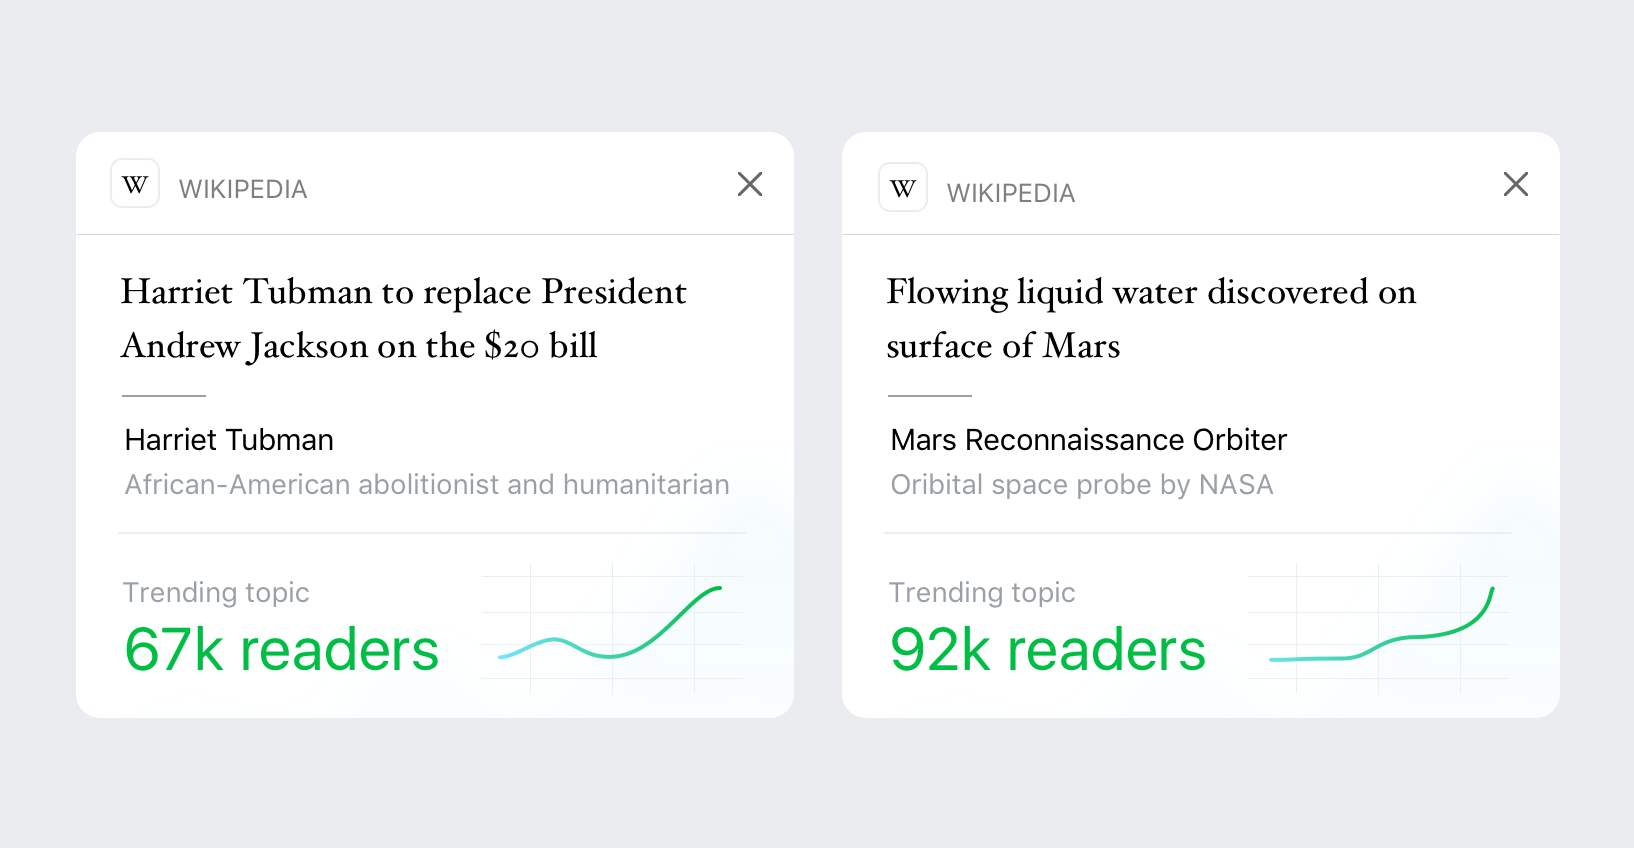
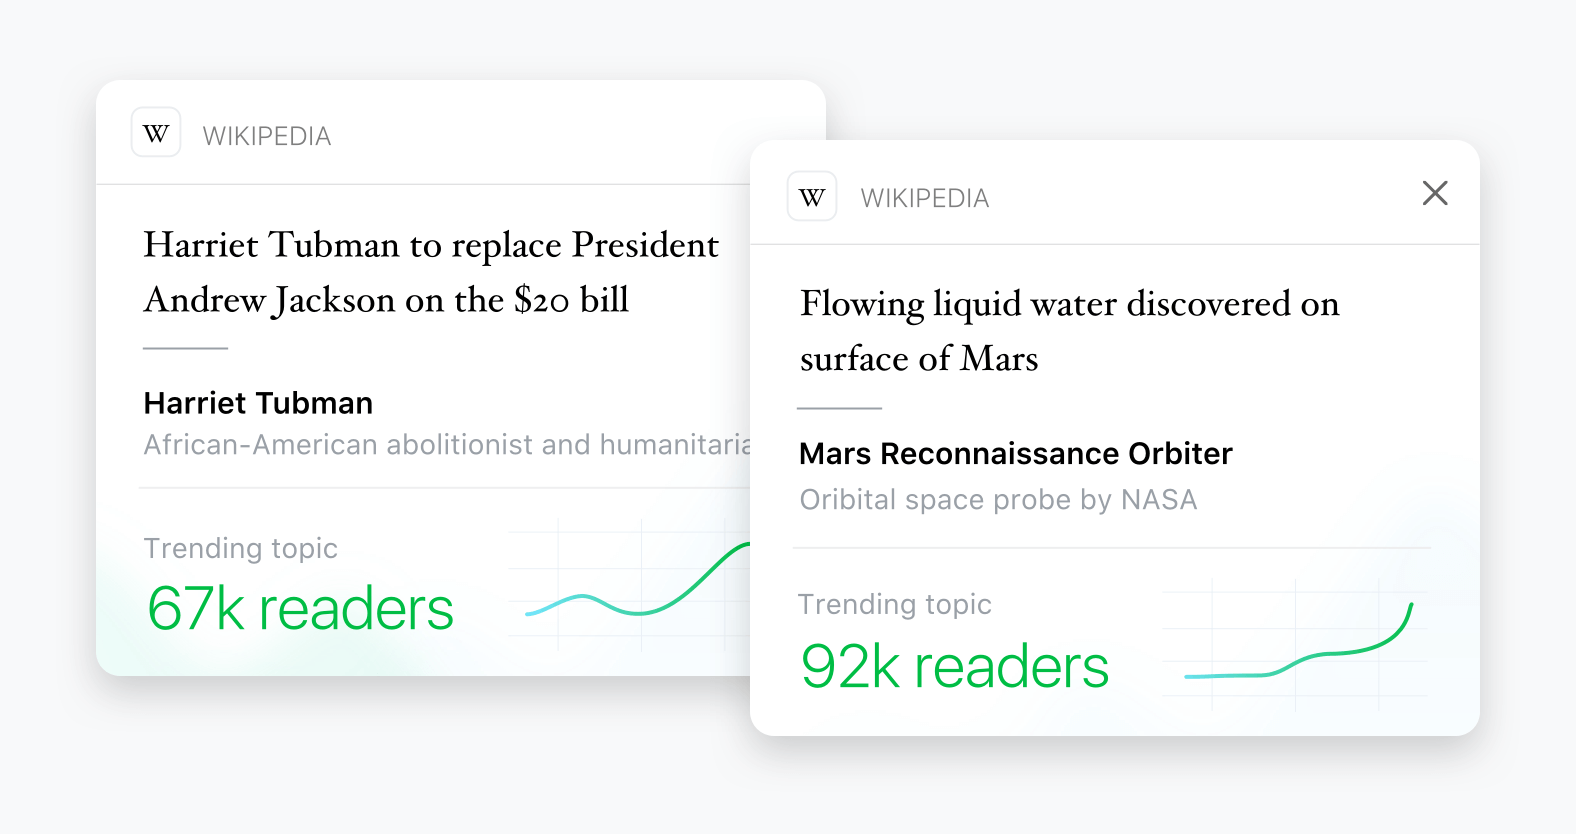
“Design Principles”: Use HiDPI 'trustworthy-yet-joyful' image

diff --git a/design-principles.html b/design-principles.html
@@ -102,7 +102,7 @@
 						<h2>Trustworthy yet joyful</h2>
 						<p>Wikimedia projects provide reliable educational knowledge. At the same time, our projects are a source of entertainment and satisfy human curiosity. This requires us to find the right balance: we need to convey trust with our solutions and remain entertaining and fresh.</p>
 						<figure class="figure figure--full">
-							<img src="img/design-principles/trustworthy-yet-joyful.svg" onerror="this.src='img/design-principles/trustworthy-yet-joyful.png'" alt="Screenshot of trending readers topic graph" role="img">
+							<img src="img/design-principles/trustworthy-yet-joyful@2x.png" alt="Screenshot of trending readers topic graph" role="img">
 						</figure>
 					</section>
 
